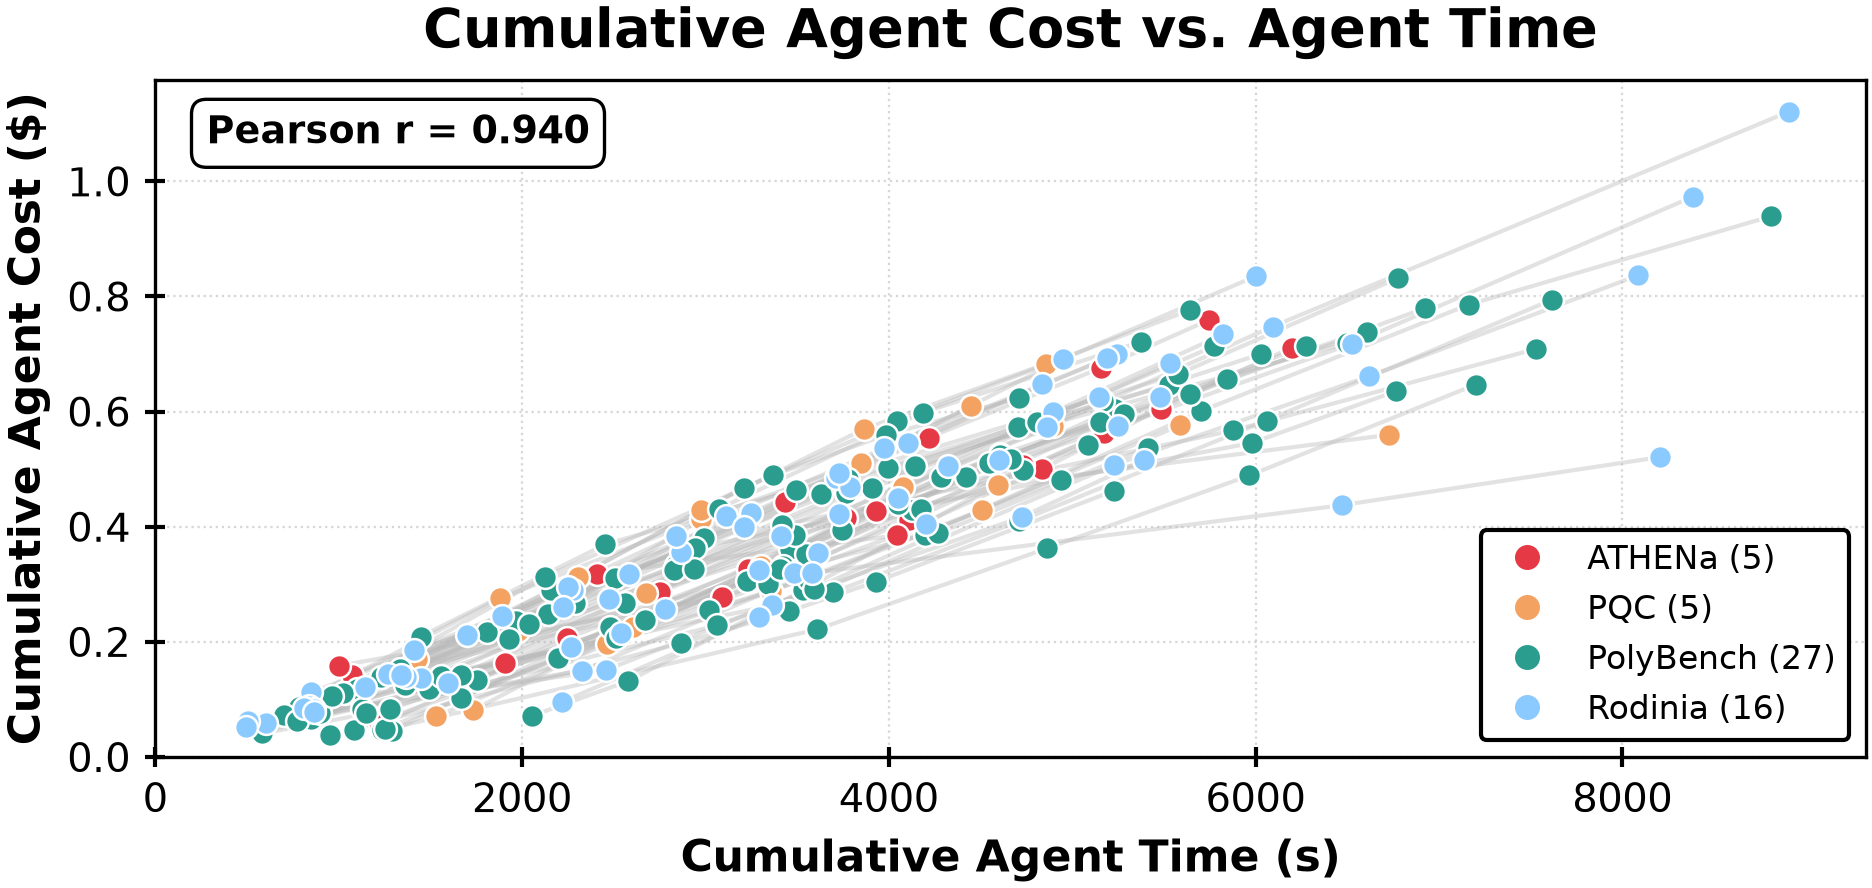
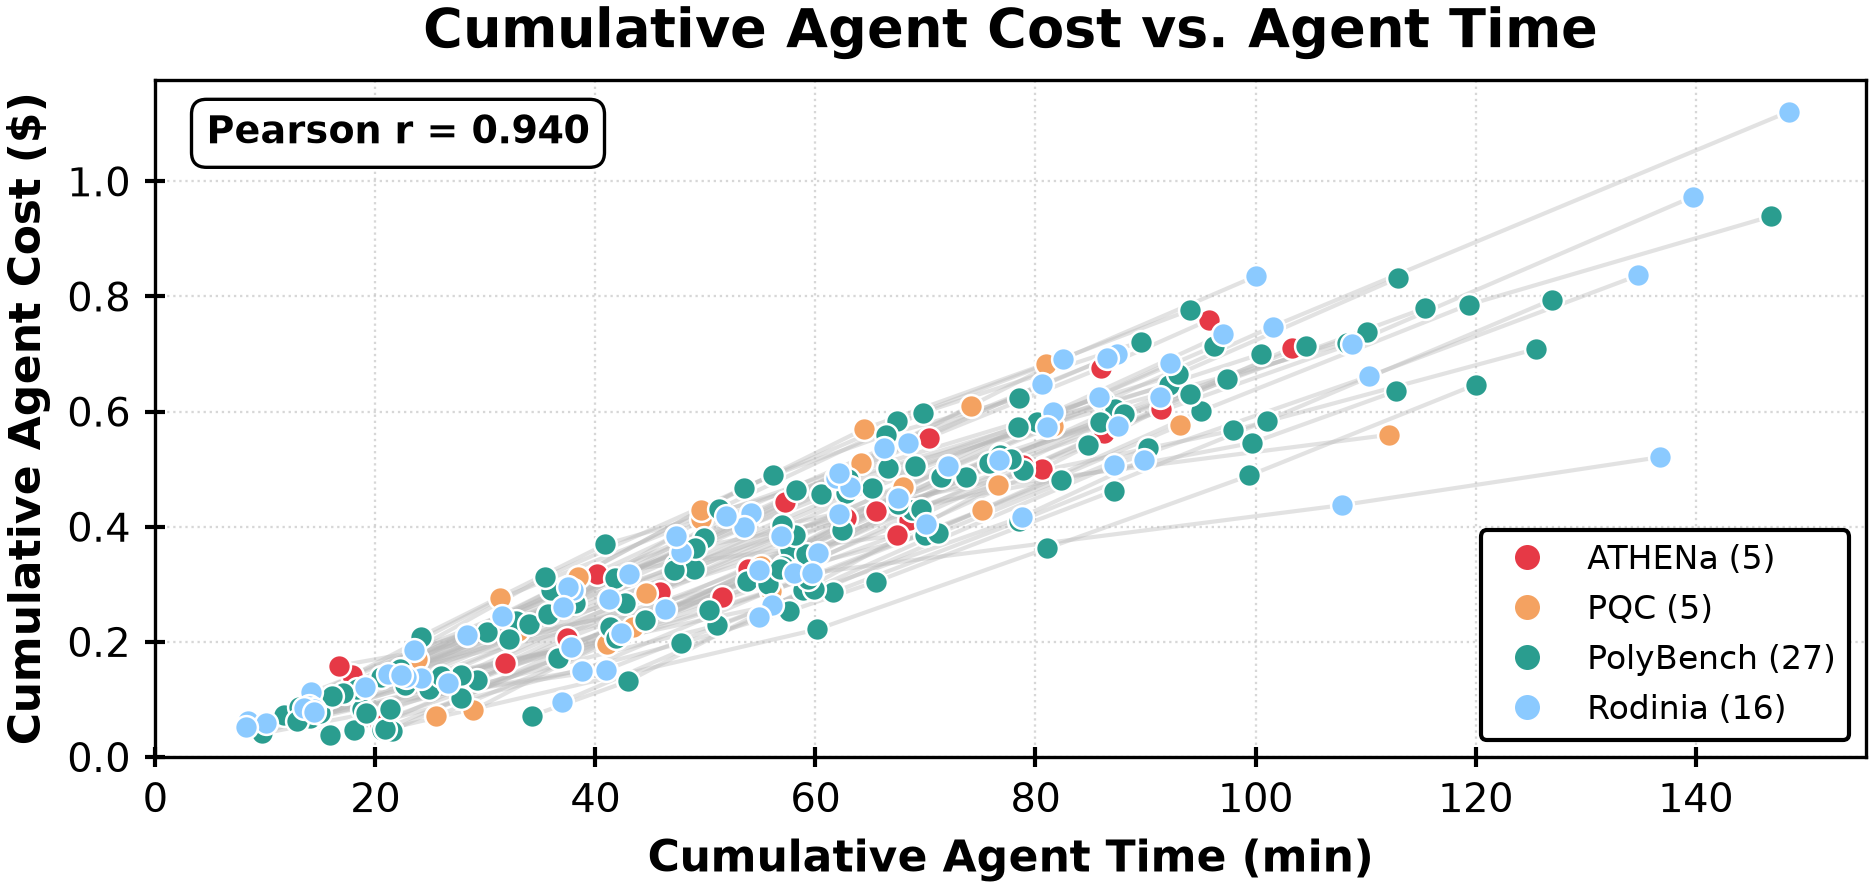
updates

diff --git a/hls_eval_experiments/hls_paramaterize_agent_pi/plot_pareto_scores_iso_budget.py b/hls_eval_experiments/hls_paramaterize_agent_pi/plot_pareto_scores_iso_budget.py
@@ -40,6 +40,8 @@ from plot_style_trj import (
     style_score_row,
 )
 
+# Runtime budgets are evaluated in seconds and drawn in minutes.
+SECONDS_PER_MINUTE = 60
 N_BUDGET_POINTS = 400
 
 # Whether the plots carry the "<n> designs across ... | <what> within the <x> budget"
@@ -156,6 +158,7 @@ def make_iso_budget_plot(
     two_line_ylabel: bool = False,
     show_row_box: bool = True,
     y_limits: tuple[float, float] = (-0.04, 1.04),
+    x_scale: float = 1.0,
 ):
     """One row per resource type: every design's score-vs-budget curve in faint
     gray, plus one colored mean curve per benchmark source.
@@ -166,7 +169,9 @@ def make_iso_budget_plot(
     score_description is the phrase for it in the subtitle. two_line_ylabel uses
     the bold "Pareto Score" / "(Lat. vs. <resource>)" y label of the score plots;
     show_row_box toggles the boxed "Latency vs. <resource> (n)" label at the
-    bottom right of each row."""
+    bottom right of each row. x_scale divides the budget for display only (the
+    budgets are still evaluated in the units of x_attr): 60 draws seconds as
+    minutes."""
     case_names = sorted(case_scores)
     sources = sorted({case.source for case in case_scores.values()})
     source_colors = source_color_map(sources)
@@ -196,7 +201,12 @@ def make_iso_budget_plot(
                 getattr(case, x_attr), case_resource_scores[resource_key], budgets
             )
             ax.plot(
-                budgets, curve, color=GREY, linewidth=GREY_LW, alpha=GREY_ALPHA, zorder=2
+                budgets / x_scale,
+                curve,
+                color=GREY,
+                linewidth=GREY_LW,
+                alpha=GREY_ALPHA,
+                zorder=2,
             )
             curves_by_source.setdefault(case.source, []).append(curve)
 
@@ -218,14 +228,18 @@ def make_iso_budget_plot(
                 counts > 0, np.nansum(stacked, axis=0) / np.maximum(counts, 1), np.nan
             )
             ax.plot(
-                budgets, mean_curve, color=source_colors[source], lw=MEAN_LW, zorder=4
+                budgets / x_scale,
+                mean_curve,
+                color=source_colors[source],
+                lw=MEAN_LW,
+                zorder=4,
             )
             sources_present.add(source)
         style_score_row(
             ax,
             f"vs. {resource_label}",
             f"Latency vs. {resource_label} ({n_lines})" if show_row_box else None,
-            (0, max_budget),
+            (0, max_budget / x_scale),
             ax is axes[-1],
             box_edge_color="black",
             y_limits=y_limits,
@@ -290,9 +304,10 @@ if __name__ == "__main__":
         case_scores,
         DIR_FIGURES_SCORES,
         "cumulative_seconds",
-        "Budget: Cumulative Agent Time (s)",
+        "Budget: Cumulative Agent Time (min)",
         "iso_budget_pareto_score__runtime.png",
         "time",
+        x_scale=SECONDS_PER_MINUTE,
     )
 
     # Same plots with the per-iteration scoring: each design's value at a
@@ -315,7 +330,7 @@ if __name__ == "__main__":
         case_scores,
         DIR_FIGURES_SCORES,
         "cumulative_seconds",
-        "Budget: Cumulative Agent Time (s)",
+        "Budget: Cumulative Agent Time (min)",
         "iso_budget_pareto_score_per_iter__runtime.png",
         "time",
         score_attr="iter_scores_by_resource",
@@ -324,5 +339,6 @@ if __name__ == "__main__":
         two_line_ylabel=True,
         show_row_box=False,
         y_limits=(0.0, 1.0),
+        x_scale=SECONDS_PER_MINUTE,
     )
     print(f"Done making iso-budget plots for {len(case_scores)} designs")

diff --git a/hls_eval_experiments/hls_paramaterize_agent_pi/plot_cost_vs_time.py b/hls_eval_experiments/hls_paramaterize_agent_pi/plot_cost_vs_time.py
@@ -1,5 +1,5 @@
 """Cumulative agent cost vs. cumulative agent time: one point per design per
-iteration, at the design's total agent time (x, seconds) and total agent cost (y,
+iteration, at the design's total agent time (x, minutes) and total agent cost (y,
 dollars) through the end of that iteration. All samples of one iteration share the
 same cost and time, so they land on the same point; a thin line joins a design's
 iterations in order.
@@ -28,6 +28,9 @@ from plot_style_trj import (
 )
 
 
+SECONDS_PER_MINUTE = 60
+
+
 def make_cost_vs_time_plot(cases: dict[str, CaseData], output_dir: Path):
     apply_trj_style()
     sources = sorted({case.source for case in cases.values()})
@@ -36,7 +39,7 @@ def make_cost_vs_time_plot(cases: dict[str, CaseData], output_dir: Path):
     fig, ax = plt.subplots(figsize=(6.5, 4.6 * 0.7))
     for case in cases.values():
         ax.plot(
-            case.cumulative_seconds,
+            [x / SECONDS_PER_MINUTE for x in case.cumulative_seconds],
             case.cumulative_cost,
             color=GREY,
             linewidth=GREY_LW,
@@ -46,7 +49,11 @@ def make_cost_vs_time_plot(cases: dict[str, CaseData], output_dir: Path):
     for source in sources:
         source_cases = [case for case in cases.values() if case.source == source]
         ax.scatter(
-            [x for case in source_cases for x in case.cumulative_seconds],
+            [
+                x / SECONDS_PER_MINUTE
+                for case in source_cases
+                for x in case.cumulative_seconds
+            ],
             [y for case in source_cases for y in case.cumulative_cost],
             s=30,
             color=source_colors[source],
@@ -54,9 +61,13 @@ def make_cost_vs_time_plot(cases: dict[str, CaseData], output_dir: Path):
             linewidth=0.6,
             zorder=3,
         )
-    all_seconds = [x for case in cases.values() for x in case.cumulative_seconds]
+    all_minutes = [
+        x / SECONDS_PER_MINUTE
+        for case in cases.values()
+        for x in case.cumulative_seconds
+    ]
     all_costs = [y for case in cases.values() for y in case.cumulative_cost]
-    correlation = np.corrcoef(all_seconds, all_costs)[0, 1]
+    correlation = np.corrcoef(all_minutes, all_costs)[0, 1]
     ax.text(
         0.03,
         0.95,
@@ -73,7 +84,7 @@ def make_cost_vs_time_plot(cases: dict[str, CaseData], output_dir: Path):
     )
     ax.set_xlim(left=0)
     ax.set_ylim(bottom=0)
-    ax.set_xlabel("Cumulative Agent Time (s)", fontweight="bold")
+    ax.set_xlabel("Cumulative Agent Time (min)", fontweight="bold")
     ax.set_ylabel("Cumulative Agent Cost ($)", fontweight="bold")
     ax.tick_params(which="both", length=5, width=1.0, direction="inout")
     ax.set_title(

diff --git a/hls_eval_experiments/hls_paramaterize_agent_pi/figures/dataflow_results.tex b/hls_eval_experiments/hls_paramaterize_agent_pi/figures/dataflow_results.tex
@@ -1,5 +1,5 @@
-% Generated by plot_dataflow.py on 2026-09-21 02:46; do not edit by hand.
-% Iteration 0 only, 10 design(s) with that iteration in both runs.
+% Generated by plot_dataflow.py on 2026-09-21 03:04; do not edit by hand.
+% Iteration 0 only, 11 design(s) with that iteration in both runs.
 % Requires: \usepackage{booktabs,multirow}
 % Pareto score = baseline-anchored hypervolume ratio in log10(x+1) space of a run's
 % latency-vs-resource front, against P*, the combined front of BOTH runs' iteration points
@@ -7,7 +7,7 @@
 % row is bold, -- = not scored. Latency is LightningSim's.
 % Agent runtime = minutes the agent worked on the iteration (agent_execution_time), one
 % value per design; the harness's checking, synthesis and simulation afterwards is NOT included.
-% Not included (iteration 0 missing in a run): Autoencoder, gemm
+% Not included (iteration 0 missing in a run): Autoencoder
 % Left out of this table by choice: MultiHeadSelfAttention1
 \begin{tabular}{llcccc}
 \toprule
@@ -33,6 +33,11 @@
 \multirow{4}{*}{bicg} & Latency vs.\ LUTs & \textbf{0.97} & 0.87 & \multirow{4}{*}{37.6} & \multirow{4}{*}{64.7} \\
  & Latency vs.\ FFs & \textbf{0.98} & 0.85 &  &  \\
  & Latency vs.\ DSPs & \textbf{0.97} & 0.64 &  &  \\
+ & Latency vs.\ BRAMs & 0.00 & \textbf{1.00} &  &  \\
+\midrule
+\multirow{4}{*}{gemm} & Latency vs.\ LUTs & 0.63 & \textbf{0.98} & \multirow{4}{*}{26.4} & \multirow{4}{*}{109.8} \\
+ & Latency vs.\ FFs & 0.63 & \textbf{0.98} &  &  \\
+ & Latency vs.\ DSPs & 0.62 & \textbf{0.98} &  &  \\
  & Latency vs.\ BRAMs & 0.00 & \textbf{1.00} &  &  \\
 \midrule
 \multirow{4}{*}{gesummv} & Latency vs.\ LUTs & \textbf{0.97} & 0.85 & \multirow{4}{*}{53.5} & \multirow{4}{*}{57.9} \\
